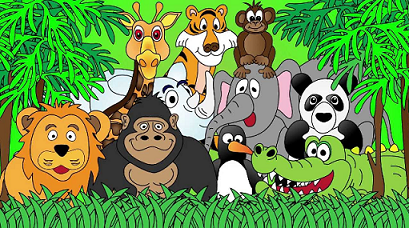
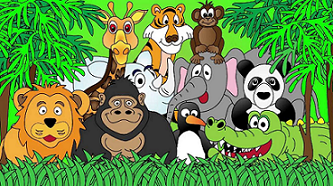
Game

diff --git a/Zoo_Animal_Hangman_working.html b/Zoo_Animal_Hangman_working.html
@@ -40,11 +40,7 @@
     <div class="container">
 
         <div class="row">
-
-            <div class="col-lg-12">
-
-                <!-- The content in this div gets wrapped in a panel -->
-
+            <div class="col-lg-4">
                 <div class="panel panel-default">
 
                     <div class="panel-body">
@@ -54,17 +50,37 @@
                     </div>
                 </div>
             </div>
+
+            <div class="col-lg-4">
+                <div class="panel panel-default">
+
+                    <div class="panel-body">
+                        <p><img src="assets\zooanimals.png"></p>
+                    </div>
+
+                </div>
+            </div>
+
+            <div class="col-lg-4">
+
+                <div class="panel panel-default">
+
+                    <div class="panel-body">
+
+                        <div id="game2">
+                        </div>
+
+                        <img id="myImg" src="assets/Jacob.jpg" width="300" height="400">
+                    </div>
+                </div>
+
+            </div>
         </div>
     </div>
+
     <div class="container">
 
         <div class="row">
-
-            <div class="col-lg-5">
-
-                <p><img src="assets\zooanimals.png"></p>
-
-            </div>
 
             <div class="col-lg-4">
 
@@ -82,44 +98,8 @@
 
                 </div>
             </div>
-
-
         </div>
     </div>
-    </div>
-
-
-    <div class="container">
-
-        <div class="row">
-
-            <div class="col-lg-4">
-
-                <div class="panel panel-default">
-
-                    <div class="panel-body">
-
-                        <div id="game2">
-                        </div>
-
-                        <img id="myImg" src="assets/Jacob.jpg" width="300" height="400">
-                    </div>
-                </div>
-
-            </div>
-
-            <div class="col-lg-4">
-                <!-- <div id="game2">
-
-                    <div class="panel panel-default">
-
-                        <div class="panel-body">
-
-                        </div>
-                    </div> -->
-
-            </div>
-        </div>
 
     </div>
     </div>
@@ -132,7 +112,7 @@
         var animals = ["lion", "tiger", "monkey", "owl", "flamingo", "bat", "bear",
             "camel", "rhino", "goat", "penguin"
         ];
-        var hangman = ["|", "|", "|", "|", "|", "|", "|","|"];
+        var hangman = ["|", "|", "|", "|", "|", "|", "|", "|"];
         // var hangman = {HEAD:"assets/Jacob.jpg", BODY:"assets/Jacob.jpg", LEFTARM:"assets/Jacob.jpg", RIGHTARM:"assets/Jacob.jpg", LEFTLEG:"assets/Jacob.jpg", RIGHTLEG:"assets/Jacob.jpg"};
         var letters = [];
         var body = 0;
@@ -152,12 +132,12 @@
         alert("The zoo aminal has " + word.length + " letters");
         // window.confirm("Are you ready to pick your first letter?");
 
-var remainingLetters = word.length;
+        var remainingLetters = word.length;
 
         document.onkeyup = function (event) {
             var guess = event.key;
 
-            
+
 
             // The game loop
             while (remainingLetters > 0) {
